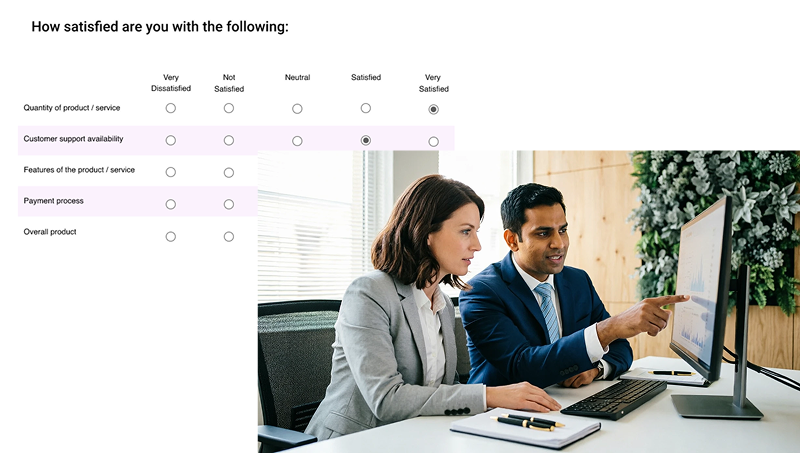
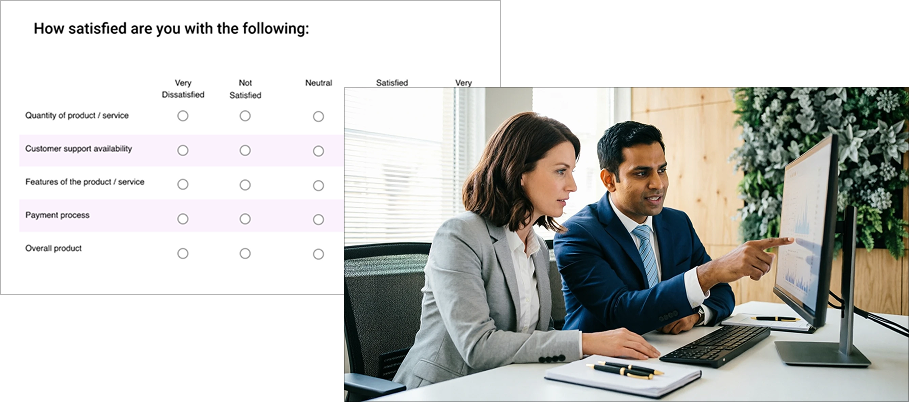
Update May 23 2.15pm

diff --git a/design-ai.html b/design-ai.html
@@ -9,7 +9,7 @@
     <style>
         /* Page-specific styles for Design With AI */
         .design-ai-hero {
-            background: var(--amazon-light-green);
+            background: #F3F8F5;
             padding: 3.5rem 1.25rem 3rem;
             text-align: center;
         }
@@ -23,16 +23,58 @@
         }
         
         .design-ai-overview {
-            font-size: 1.1rem;
+            font-size: 1rem;
             line-height: 1.6;
             color: var(--text-muted);
             max-width: 760px;
             margin: 0 auto;
         }
         
+        /* Tools Section */
+        .tools-section-wrapper {
+            background: #FFFFFF;
+            padding: 2rem 1.25rem;
+        }
+        
+        .tools-box {
+            background: #FDF6F0;
+            padding: 2rem;
+            margin: 0 auto;
+            border-radius: 16px;
+            max-width: var(--max-w);
+        }
+        
+        .section-subtitle {
+            font-size: 0.85rem;
+            text-transform: uppercase;
+            letter-spacing: 0.1em;
+            color: #385f64;
+            margin-bottom: 1rem;
+            font-weight: 600;
+        }
+        
+        /* Continuous vertical bar list style */
+        .bullet-list-vertical-bar {
+            margin: 0;
+            padding-left: 1rem;
+            list-style: none;
+            color: #2c4b4f;
+            line-height: 1.6;
+            border-left: 3px solid #00a8a1;
+        }
+        
+        .bullet-list-vertical-bar li {
+            margin-bottom: 0.5rem;
+            padding-left: 0.75rem;
+        }
+        
+        .bullet-list-vertical-bar li:last-child {
+            margin-bottom: 0;
+        }
+        
         .design-ai-section {
             padding: 3rem 0 4rem;
-            background: var(--amazon-blue-bg);
+            background: #D9E8E9;
         }
         
         .design-ai-cards {
@@ -41,7 +83,7 @@
             gap: 1.5rem;
             max-width: var(--max-w);
             margin: 0 auto;
-            padding: 0 2rem; /* Increased side margins */
+            padding: 0 2rem;
         }
         
         @media (max-width: 1100px) {
@@ -66,6 +108,7 @@
             transition: transform 0.25s var(--ease), box-shadow 0.25s var(--ease);
             display: flex;
             flex-direction: column;
+            border: 1px solid rgba(0, 0, 0, 0.3);
         }
         
         .design-ai-card:hover {
@@ -78,7 +121,7 @@
             aspect-ratio: 16/9;
             overflow: hidden;
             background: var(--bg-soft);
-            border-bottom: 1px solid rgba(0, 0, 0, 0.3); /* Thin divider with 30% opacity */
+            border-bottom: 1px solid rgba(0, 0, 0, 0.3);
         }
         
         .design-ai-card__thumb {
@@ -101,6 +144,7 @@
             color: var(--c-1300);
             margin: 0 0 0.6rem;
             letter-spacing: -0.005em;
+            line-height: 1.3;
         }
         
         .design-ai-card__text {
@@ -118,21 +162,14 @@
             margin: 0.5rem 0;
         }
         
-        .design-ai-card__tools {
-            font-size: 0.8rem;
-            color: var(--c-1100);
-            margin: 0 0 0.75rem;
-            line-height: 1.4;
-        }
-        
         .design-ai-btn {
             display: inline-block;
             background: var(--amazon-teal-btn);
             color: #ffffff;
             font-family: Arial, sans-serif;
-            font-weight: 700; /* Bold */
+            font-weight: 700;
             font-size: 0.9rem;
-            padding: 0.5rem 1rem; /* Tighter padding to hug content */
+            padding: 0.5rem 1rem;
             border: none;
             border-radius: 4px;
             text-decoration: none;
@@ -140,7 +177,7 @@
             transition: background 0.2s var(--ease), transform 0.1s var(--ease);
             margin-top: auto;
             text-align: center;
-            width: auto; /* Allow button to shrink to content */
+            width: auto;
         }
         
         .design-ai-btn:hover {
@@ -233,8 +270,18 @@
         <!-- Hero Section -->
         <section class="design-ai-hero">
             <h1 class="design-ai-title">Design With AI</h1>
-            <p class="design-ai-overview">This section showcases projects where I heavily used various AI tools. Since late 2025, I've been actively integrating AI into design processes and continuously exploring new tools to streamline workflows.</p>
+            <p class="design-ai-overview">This section highlights projects where I used AI to move faster from discovery to execution while keeping the work grounded in UX fundamentals. Since late 2025, I've been integrating AI into my process to accelerate early exploration, synthesize inputs, and iterate on flows, content, and prototypes more efficiently. I also regularly explore new tools through tutorials and hands-on experimentation to stay current and understand when AI meaningfully improves quality and speed.</p>
         </section>
+
+        <!-- Tools Section -->
+        <div class="tools-section-wrapper">
+            <div class="tools-box">
+                <div class="section-subtitle">TOOLS USED ACROSS THE PROJECTS</div>
+                <ul class="bullet-list-vertical-bar">
+                    <li>Claude & Claude Design, Figma Make, ChatGPT, Oracle GenAI, OpenAI Codex, Copilot, Google AI, Aura Build, Visily, Subframe, and others.</li>
+                </ul>
+            </div>
+        </div>
 
         <!-- Cards Section -->
         <section class="design-ai-section">
@@ -248,8 +295,7 @@
                     <div class="design-ai-card__content">
                         <h3 class="design-ai-card__title">Oracle Inventory Supply Chain Dashboard</h3>
                         <p class="design-ai-card__text">This project was designed and prototyped using Figma Make and OpenAI Codex. In the next phase, I presented it to several teams and stakeholders, interviewed users for feedback, and iterated the design based on findings.</p>
-                        <p class="design-ai-card__tools"><strong>Tools used:</strong> Claude, Figma, ChatGPT, CoPilot, Oracle Chat</p>
-                        <a href="dashboard.html" class="design-ai-btn">View prototype</a>
+                        <a href="dashboard.html" target="_blank" rel="noopener noreferrer" class="design-ai-btn">View prototype</a>
                     </div>
                 </article>
 
@@ -260,9 +306,7 @@
                     </div>
                     <div class="design-ai-card__content">
                         <h3 class="design-ai-card__title">The Medicine People</h3>
-                        <p class="design-ai-card__text">A collaborative project with the owner of an online holistic center offering herbal products, consultations, and education focused on plant‑based healing.</p>
-                        <p class="design-ai-card__note">Note: This project is still in progress.</p>
-                        <p class="design-ai-card__tools"><strong>Tools used:</strong> Claude, Figma, ChatGPT, CoPilot, Oracle Chat</p>
+                        <p class="design-ai-card__text">A collaborative project with the owner of an online holistic center offering herbal products, consultations, and education focused on plant‑based healing. <br><br>Note: This project is still in progress.</p>
                         <a href="https://medicine-people.com/" target="_blank" rel="noopener noreferrer" class="design-ai-btn">View website</a>
                     </div>
                 </article>
@@ -275,8 +319,7 @@
                     <div class="design-ai-card__content">
                         <h3 class="design-ai-card__title">Grocery Store Inventory Management</h3>
                         <p class="design-ai-card__text">This project explores how AI‑assisted tools can support a structured UX process, with potential application to Oracle Data Center Supply Chain Management products.</p>
-                        <p class="design-ai-card__tools"><strong>Tools used:</strong> Figma, Claude, ChatGPT, CoPilot, Oracle Chat</p>
-                        <a href="https://www.behance.net/gallery/248004677/AI-Powered-UX-Case-Study" target="_blank" rel="noopener noreferrer" class="design-ai-btn">View project</a>
+                        <a href="use-cases/inventory.html" target="_blank" rel="noopener noreferrer" class="design-ai-btn">View project</a>
                     </div>
                 </article>
 
@@ -287,8 +330,7 @@
                     </div>
                     <div class="design-ai-card__content">
                         <h3 class="design-ai-card__title">Portfolio website</h3>
-                        <p class="design-ai-card__text">I designed and coded this portfolio using several AI tools, including Claude, Figma, Figma Make, ChatGPT, and others.</p>
-                        <p class="design-ai-card__tools"><strong>Tools used:</strong> Claude, Figma, Figma Make, ChatGPT</p>
+                        <p class="design-ai-card__text">I built this portfolio using a range of AI tools for coding and content, which helped accelerate development and refine the overall presentation. Through this process, I became very comfortable with rapid prototyping and working across multiple AI tools.</p>
                         <a href="index.html" class="design-ai-btn">Go to homepage</a>
                     </div>
                 </article>
@@ -323,7 +365,7 @@
         </div>
         <div class="site-footer__meta">
             <p class="site-footer__disclaimer">All work presented here was created for my employers and is protected by copyright. It is shared here for viewing purposes only.</p>
-            <p class="site-footer__copyright">&copy; 2026 Larissa Starikova &middot; UX Lead &amp; AI Strategist / Senior Principal Designer</p>
+            <p class="site-footer__copyright">&copy; 2026 Larissa Starikova · UX Lead &amp; AI Strategist / Senior Principal Designer</p>
         </div>
     </footer>
 

diff --git a/use-cases/index.html b/use-cases/index.html
@@ -101,7 +101,7 @@
         <section class="content-hero">
             <h2 class="content-hero__title">UX Process and Use Cases</h2>
             <p class="content-hero__paragraph">Every organization and project presents unique challenges, goals, and constraints, so my design process adapts to fit the problem. This section highlights key use cases that demonstrate how I apply these methods in practice, along with the research techniques and design processes that my teams and I have refined over the years.</p>
-            <p class="content-hero__paragraph">Since 2025, I've integrated AI‐powered tools into the design process. As UX practices and ways of working rapidly evolve alongside AI, I continuously adapt how UX teams operate to ensure both efficiency and quality. See the <a href="inventory.html" class="inline-link">Design with AI</a> section for examples.</p>
+            <p class="content-hero__paragraph">Since 2025, I've integrated AI‐powered tools into the design process. As UX practices and ways of working rapidly evolve alongside AI, I continuously adapt how UX teams operate to ensure both efficiency and quality. See the <a href="../design-ai.html" target="_blank" rel="noopener noreferrer" class="inline-link">Design with AI</a> section for examples.</p>
         </section>
 
         <!-- 1. AI for UX -->
@@ -109,7 +109,7 @@
             <div class="content-wrapper">
                 <div class="content-block">
                     <h2 class="content-block__title">AI for UX</h2>
-                    <p class="content-block__text">Using AI tools is still new for everyone, but my team and I have been successfully using them for research, design exploration, prototyping, understanding requirements, and interviewing users. This has helped us streamline our processes and allowed us to focus more on solving creative and complex problems. See more <a href="../design-ai.html" class="inline-link">Design with AI</a></p>
+                    <p class="content-block__text">Using AI tools is still new for everyone, but my team and I have been successfully using them for research, design exploration, prototyping, understanding requirements, and interviewing users. This has helped us streamline our processes and allowed us to focus more on solving creative and complex problems. See more <a href="../design-ai.html" target="_blank" rel="noopener noreferrer" class="inline-link">Design with AI</a></p>
                 </div>
                 <img class="image-placeholder" src="../images/use-cases/overview/ai.png" alt="AI tools in UX workflow">
             </div>
@@ -186,14 +186,14 @@
             <div class="content-wrapper content-wrapper--img-left">
                 <div class="content-block">
                     <h2 class="content-block__title">Sketching and Design Explorations</h2>
-                    <p class="content-block__text">Before moving into digital tools, I sketch concepts on paper or whiteboards to quickly explore ideas. More recently, I've begun using AI tools and well‐crafted prompts to generate and iterate on sketches during this early exploration phase. See some <a href="inventory.html" class="inline-link">AI sketches</a> here.</p>
+                    <p class="content-block__text">Before moving into digital tools, I sketch concepts on paper or whiteboards to quickly explore ideas. More recently, I've begun using AI tools and well‐crafted prompts to generate and iterate on sketches during this early exploration phase. See some <a href="inventory.html" target="_blank" rel="noopener noreferrer" class="inline-link">AI sketches</a> here.</p>
                 </div>
                 <img class="image-placeholder" src="../images/use-cases/overview/sketches.png" alt="Paper sketches and AI-generated design explorations">
             </div>
         </section>
 
-        <!-- 9. Usability Testing & Surveys -->
-        <section class="content-section bg-soft-pink">
+        <!-- 9. Usability Testing & Surveys (White background) -->
+        <section class="content-section bg-white">
             <div class="content-wrapper">
                 <div class="content-block">
                     <h2 class="content-block__title">Usability Testing & Surveys</h2>
@@ -250,7 +250,7 @@
         </div>
         <div class="site-footer__meta">
             <p class="site-footer__disclaimer">All work presented here was created for my employers and is protected by copyright. It is shared here for viewing purposes only.</p>
-            <p class="site-footer__copyright">&copy; 2026 Larissa Starikova &middot; UX Lead &amp; AI Strategist / Senior Principal Designer</p>
+            <p class="site-footer__copyright">&copy; 2026 Larissa Starikova · UX Lead &amp; AI Strategist / Senior Principal Designer</p>
         </div>
     </footer>
 
